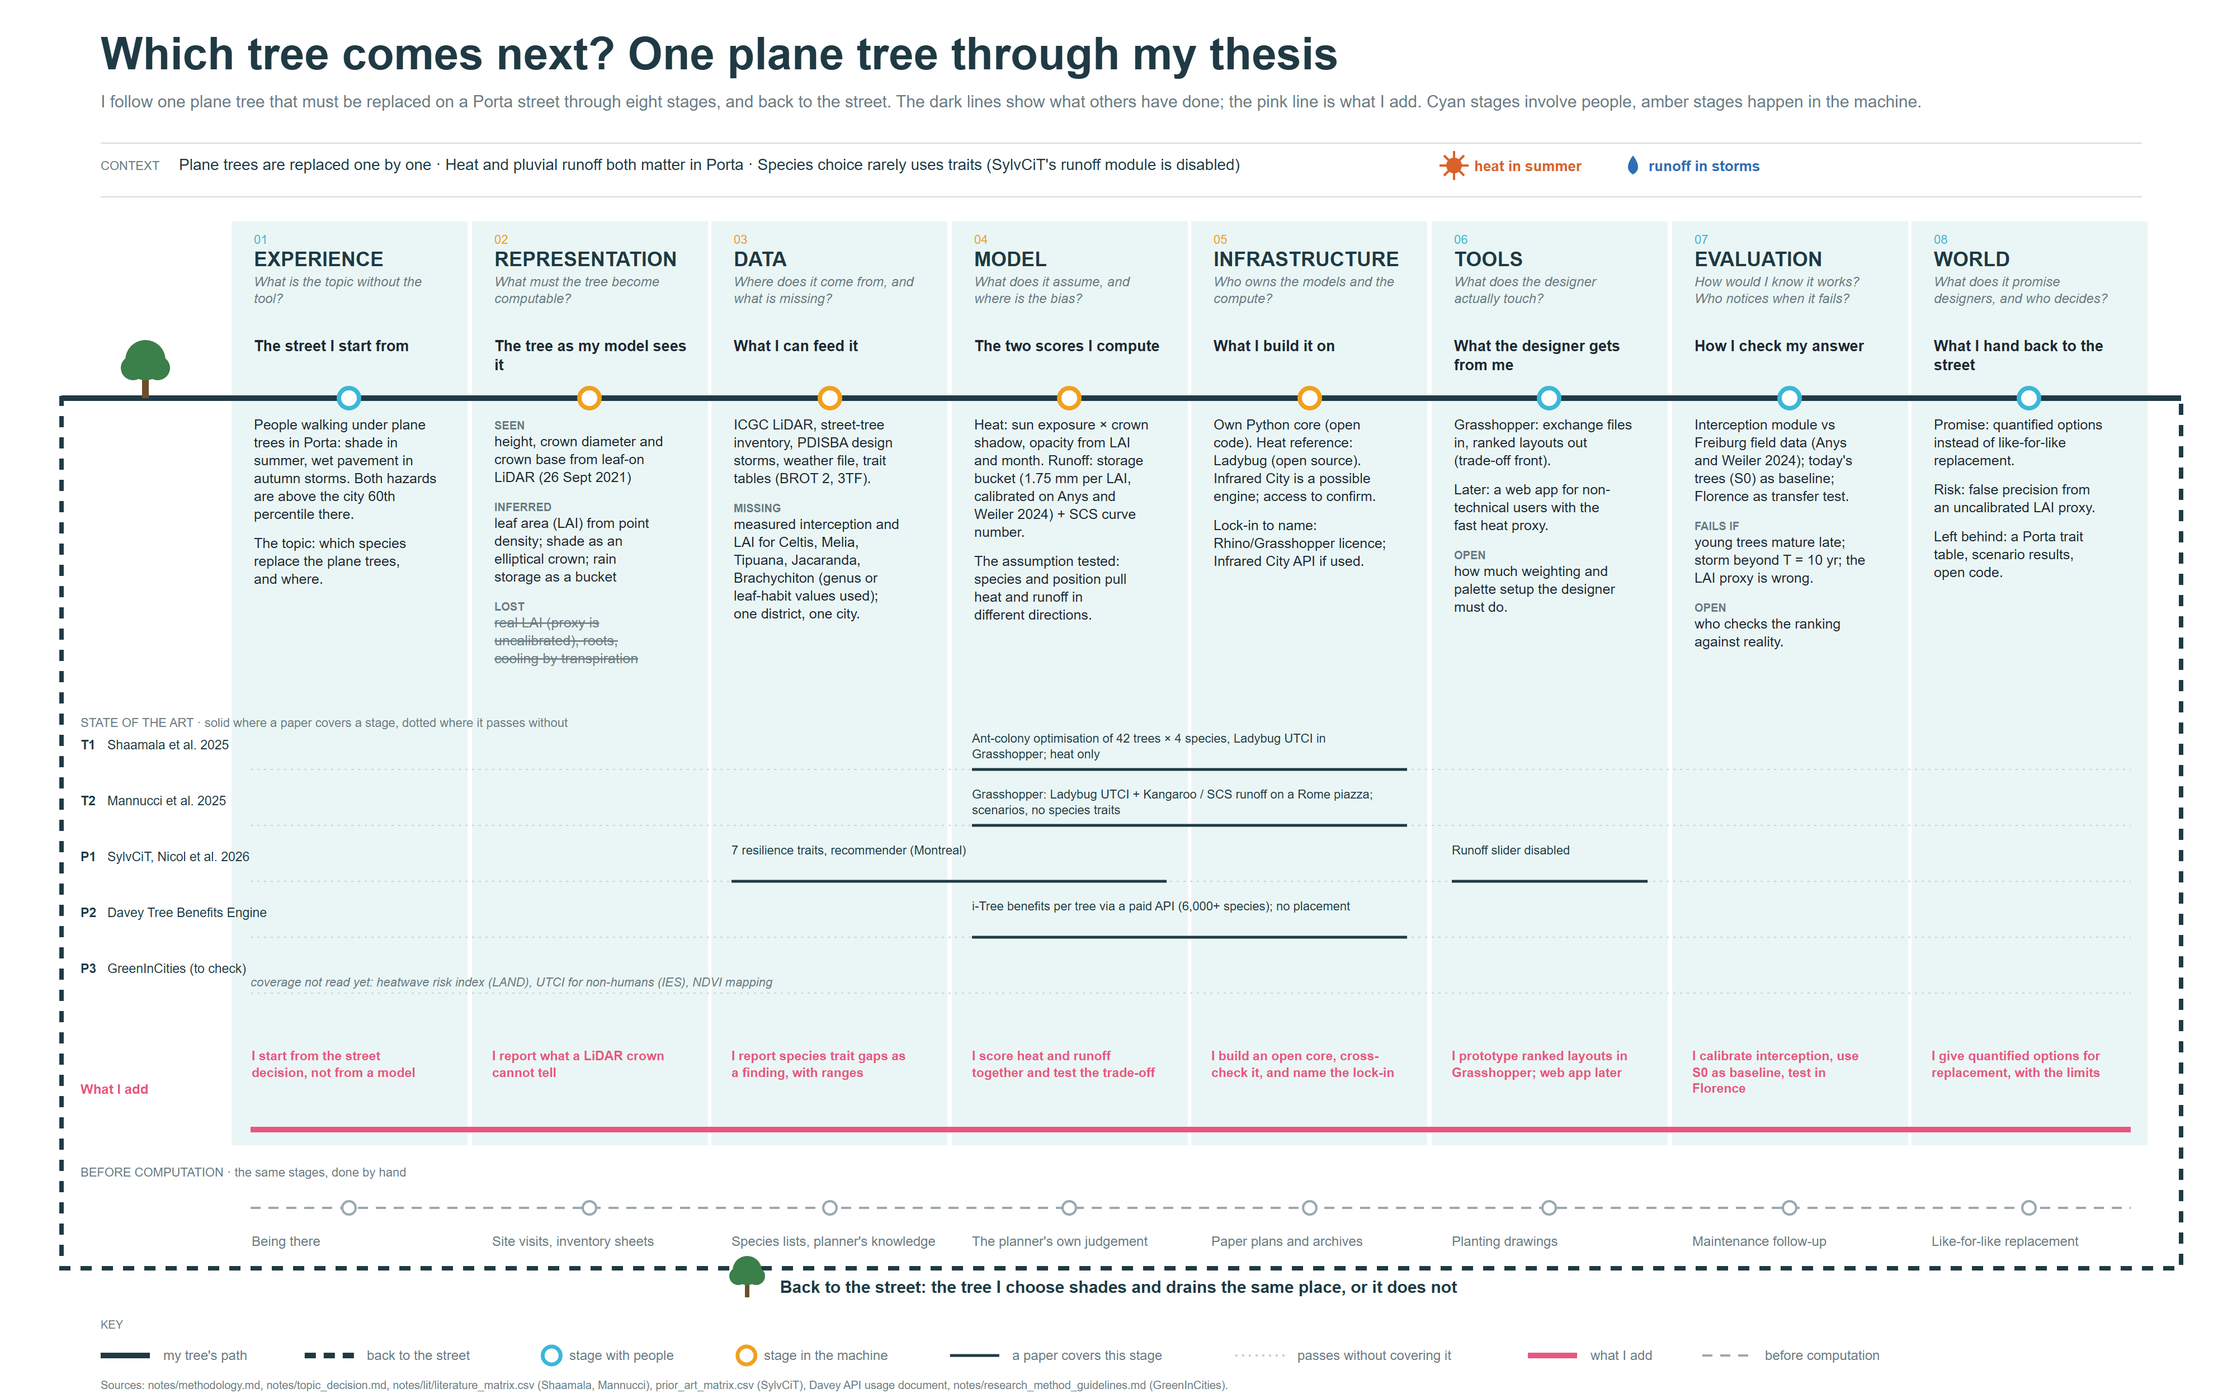
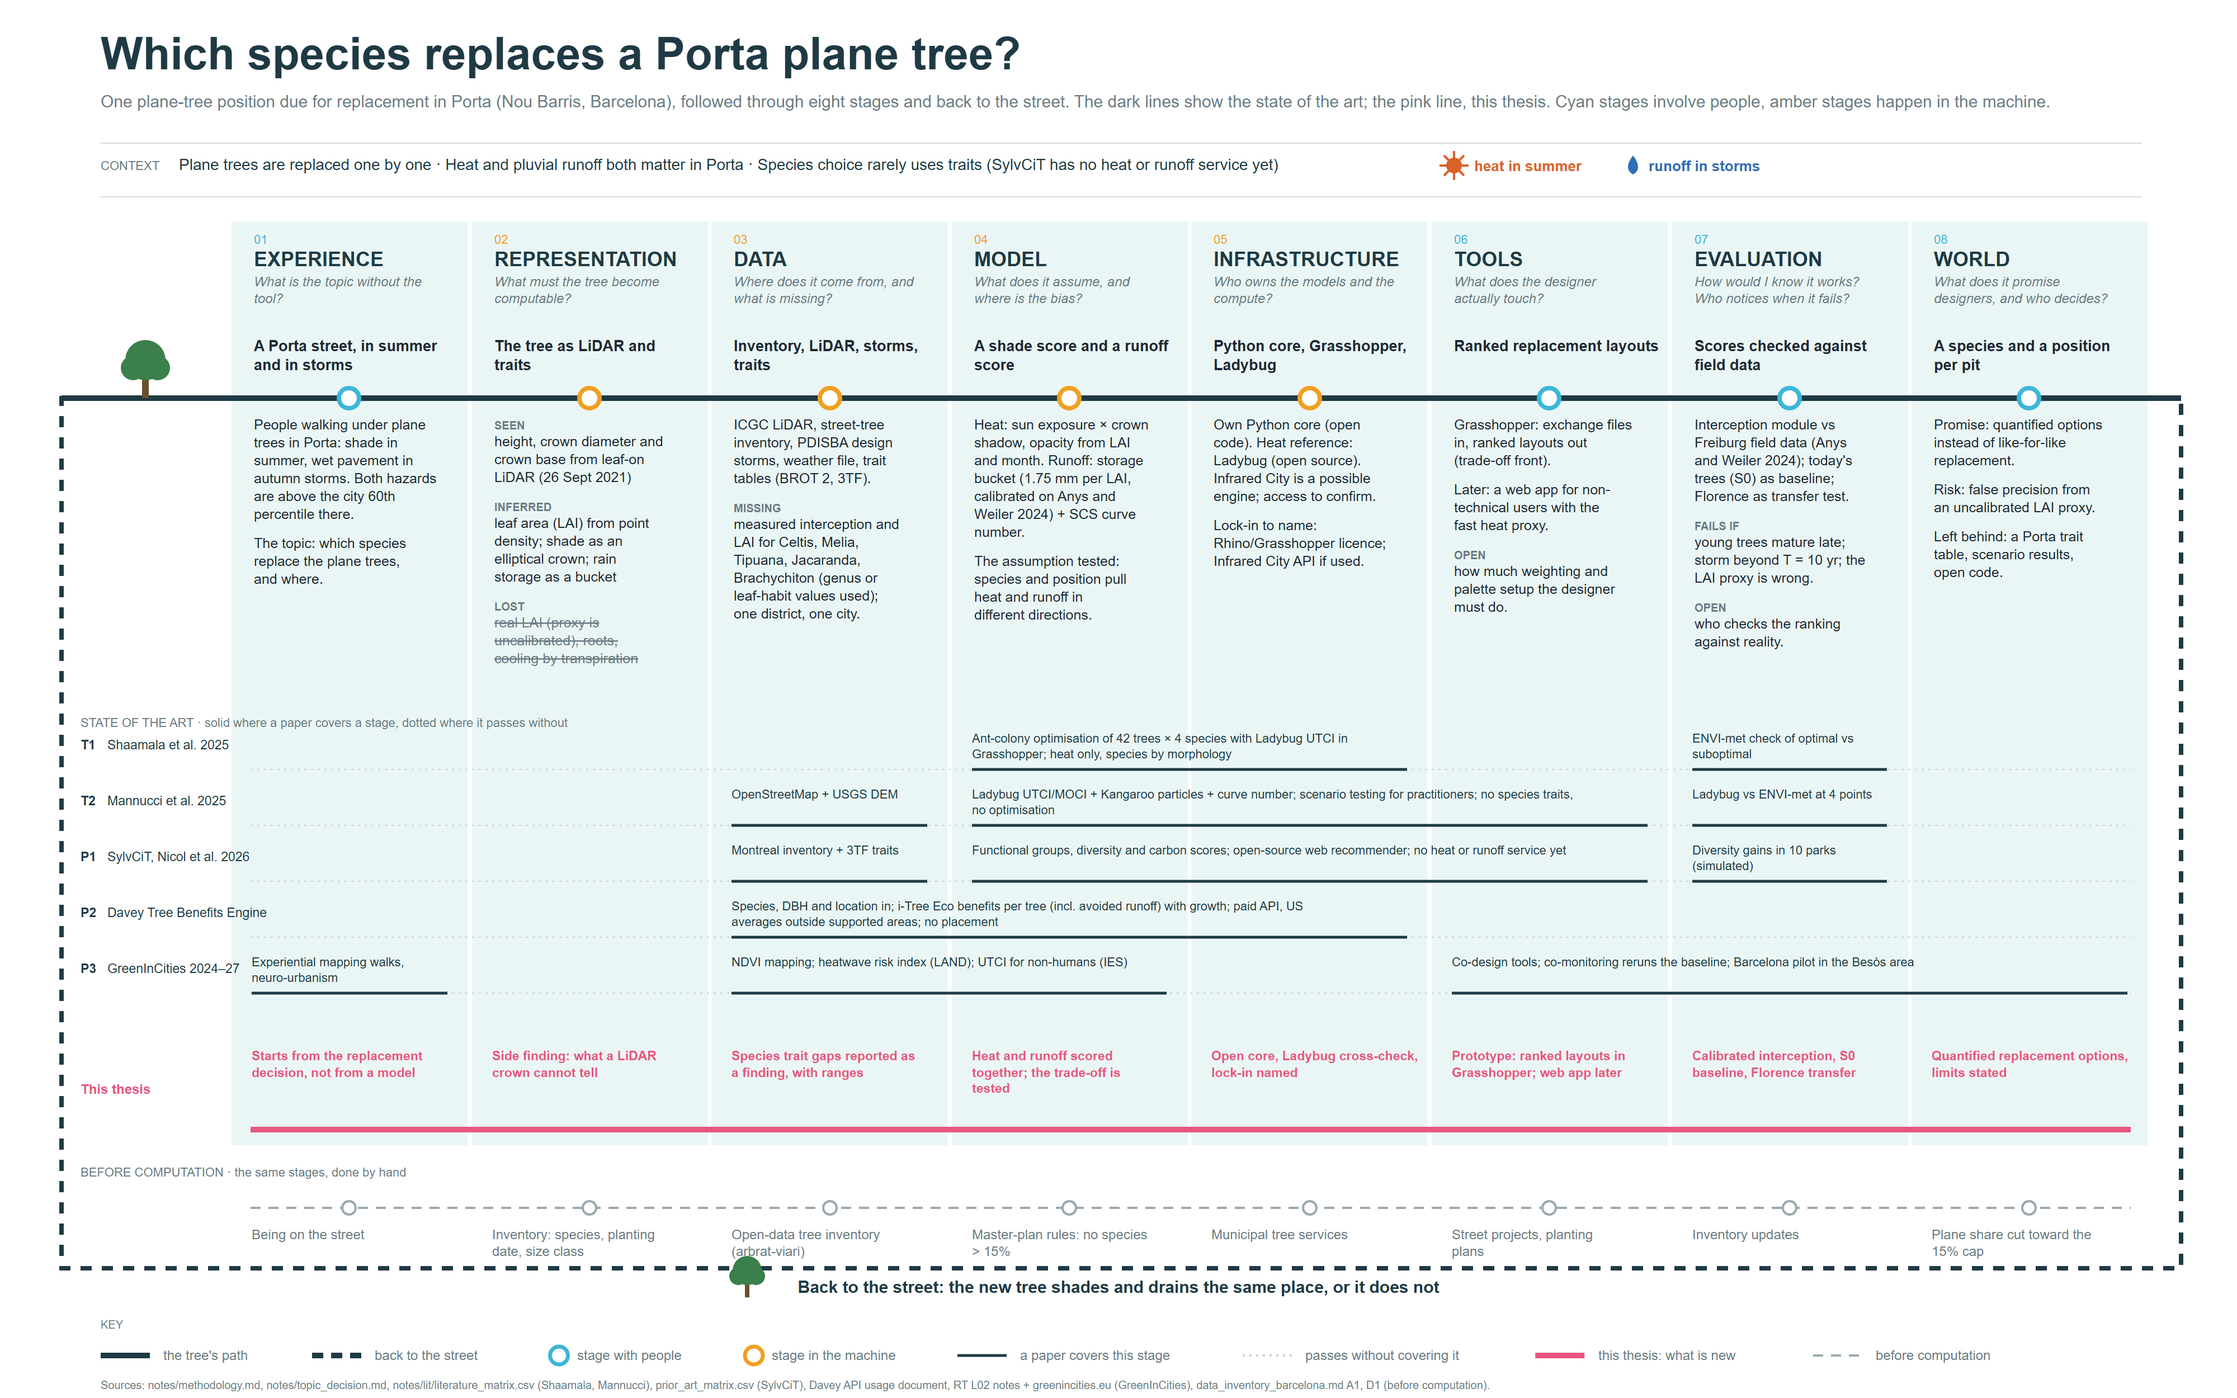
Plane-tree map: neutral wording, state-of-the-art spans checked against papers, GreenInCities row, Barcelona before-computation captions

diff --git a/scripts/make_plane_tree_map.py b/scripts/make_plane_tree_map.py
@@ -1,7 +1,8 @@
-""""Which tree comes next?": one plane-tree position through eight stages of my thesis (RM homework 1, format of a colleague's "plaza photo" map).
+"""Which species replaces a Porta plane tree? One tree position through eight stages (RM homework 1, format of a colleague's "plaza photo" map).
 
-Content comes from notes/methodology.md, notes/topic_decision.md, notes/lit/literature_matrix.csv, prior_art_matrix.csv and the
-Davey API digest; nothing new is claimed. "to check" = not read yet. Output: slides/fig/08_plane_tree_map.svg + .png (2000x1250).
+Content: notes/methodology.md, notes/topic_decision.md; state-of-the-art spans checked against the full texts in notes/lit/text
+(Shaamala 2025, Mannucci 2025, SylvCiT, Davey API) and, for GreenInCities, RT_L02_notes.md + greenincities.eu/tools (14 Oct 2026);
+"before computation" from databases/data_inventory_barcelona.md A1, D1. Output: slides/fig/08_plane_tree_map.svg + .png (2000x1250).
 """
 import pathlib
 from xml.sax.saxutils import escape
@@ -15,53 +16,61 @@ X0, CW = 205, 214.6                      # first column x, column width
 cx = lambda i: X0 + (i - 0.5) * CW       # centre of stage i (1-8)
 
 STAGES = [  # name, question, unit at this stage, people?, body [(tag, text)]
-    ("EXPERIENCE", "What is the topic without the tool?", "The street I start from", True,
+    ("EXPERIENCE", "What is the topic without the tool?", "A Porta street, in summer and in storms", True,
      [("", "People walking under plane trees in Porta: shade in summer, wet pavement in autumn storms. Both hazards are above the city 60th percentile there."),
       ("", "The topic: which species replace the plane trees, and where.")]),
-    ("REPRESENTATION", "What must the tree become computable?", "The tree as my model sees it", False,
+    ("REPRESENTATION", "What must the tree become computable?", "The tree as LiDAR and traits", False,
      [("SEEN", "height, crown diameter and crown base from leaf-on LiDAR (26 Sept 2021)"),
       ("INFERRED", "leaf area (LAI) from point density; shade as an elliptical crown; rain storage as a bucket"),
       ("LOST", "real LAI (proxy is uncalibrated), roots, cooling by transpiration")]),
-    ("DATA", "Where does it come from, and what is missing?", "What I can feed it", False,
+    ("DATA", "Where does it come from, and what is missing?", "Inventory, LiDAR, storms, traits", False,
      [("", "ICGC LiDAR, street-tree inventory, PDISBA design storms, weather file, trait tables (BROT 2, 3TF)."),
       ("MISSING", "measured interception and LAI for Celtis, Melia, Tipuana, Jacaranda, Brachychiton (genus or leaf-habit values used); one district, one city.")]),
-    ("MODEL", "What does it assume, and where is the bias?", "The two scores I compute", False,
+    ("MODEL", "What does it assume, and where is the bias?", "A shade score and a runoff score", False,
      [("", "Heat: sun exposure × crown shadow, opacity from LAI and month. Runoff: storage bucket (1.75 mm per LAI, calibrated on Anys and Weiler 2024) + SCS curve number."),
       ("", "The assumption tested: species and position pull heat and runoff in different directions.")]),
-    ("INFRASTRUCTURE", "Who owns the models and the compute?", "What I build it on", False,
+    ("INFRASTRUCTURE", "Who owns the models and the compute?", "Python core, Grasshopper, Ladybug", False,
      [("", "Own Python core (open code). Heat reference: Ladybug (open source). Infrared City is a possible engine; access to confirm."),
       ("", "Lock-in to name: Rhino/Grasshopper licence; Infrared City API if used.")]),
-    ("TOOLS", "What does the designer actually touch?", "What the designer gets from me", True,
+    ("TOOLS", "What does the designer actually touch?", "Ranked replacement layouts", True,
      [("", "Grasshopper: exchange files in, ranked layouts out (trade-off front)."),
       ("", "Later: a web app for non-technical users with the fast heat proxy."),
       ("OPEN", "how much weighting and palette setup the designer must do.")]),
-    ("EVALUATION", "How would I know it works? Who notices when it fails?", "How I check my answer", True,
+    ("EVALUATION", "How would I know it works? Who notices when it fails?", "Scores checked against field data", True,
      [("", "Interception module vs Freiburg field data (Anys and Weiler 2024); today's trees (S0) as baseline; Florence as transfer test."),
       ("FAILS IF", "young trees mature late; storm beyond T = 10 yr; the LAI proxy is wrong."),
       ("OPEN", "who checks the ranking against reality.")]),
-    ("WORLD", "What does it promise designers, and who decides?", "What I hand back to the street", True,
+    ("WORLD", "What does it promise designers, and who decides?", "A species and a position per pit", True,
      [("", "Promise: quantified options instead of like-for-like replacement."),
       ("", "Risk: false precision from an uncalibrated LAI proxy."),
       ("", "Left behind: a Porta trait table, scenario results, open code.")]),
 ]
-# state of the art: (label, [(first stage, last stage, caption)]); None caption row = covered nowhere solid
+# state of the art: (label, [(first stage, last stage, caption)])
 SOTA = [
-    ("T1 Shaamala et al. 2025", [(4, 5, "Ant-colony optimisation of 42 trees × 4 species, Ladybug UTCI in Grasshopper; heat only")]),
-    ("T2 Mannucci et al. 2025", [(4, 5, "Grasshopper: Ladybug UTCI + Kangaroo / SCS runoff on a Rome piazza; scenarios, no species traits")]),
-    ("P1 SylvCiT, Nicol et al. 2026", [(3, 4, "7 resilience traits, recommender (Montreal)"), (6, 6, "Runoff slider disabled")]),
-    ("P2 Davey Tree Benefits Engine", [(4, 5, "i-Tree benefits per tree via a paid API (6,000+ species); no placement")]),
-    ("P3 GreenInCities (to check)", []),
+    ("T1 Shaamala et al. 2025", [(4, 5, "Ant-colony optimisation of 42 trees × 4 species with Ladybug UTCI in Grasshopper; heat only, species by morphology"),
+                                 (7, 7, "ENVI-met check of optimal vs suboptimal")]),
+    ("T2 Mannucci et al. 2025", [(3, 3, "OpenStreetMap + USGS DEM"),
+                                 (4, 6, "Ladybug UTCI/MOCI + Kangaroo particles + curve number; scenario testing for practitioners; no species traits, no optimisation"),
+                                 (7, 7, "Ladybug vs ENVI-met at 4 points")]),
+    ("P1 SylvCiT, Nicol et al. 2026", [(3, 3, "Montreal inventory + 3TF traits"),
+                                       (4, 6, "Functional groups, diversity and carbon scores; open-source web recommender; no heat or runoff service yet"),
+                                       (7, 7, "Diversity gains in 10 parks (simulated)")]),
+    ("P2 Davey Tree Benefits Engine", [(3, 5, "Species, DBH and location in; i-Tree Eco benefits per tree (incl. avoided runoff) with growth; paid API, US averages outside supported areas; no placement")]),
+    ("P3 GreenInCities 2024–27", [(1, 1, "Experiential mapping walks, neuro-urbanism"),
+                                        (3, 4, "NDVI mapping; heatwave risk index (LAND); UTCI for non-humans (IES)"),
+                                        (6, 8, "Co-design tools; co-monitoring reruns the baseline; Barcelona pilot in the Besòs area")]),
 ]
-THESIS = ["I start from the street decision, not from a model",
-          "I report what a LiDAR crown cannot tell",
-          "I report species trait gaps as a finding, with ranges",
-          "I score heat and runoff together and test the trade-off",
-          "I build an open core, cross-check it, and name the lock-in",
-          "I prototype ranked layouts in Grasshopper; web app later",
-          "I calibrate interception, use S0 as baseline, test in Florence",
-          "I give quantified options for replacement, with the limits"]
-BEFORE = ["Being there", "Site visits, inventory sheets", "Species lists, planner's knowledge", "The planner's own judgement",
-          "Paper plans and archives", "Planting drawings", "Maintenance follow-up", "Like-for-like replacement"]
+THESIS = ["Starts from the replacement decision, not from a model",
+          "Side finding: what a LiDAR crown cannot tell",
+          "Species trait gaps reported as a finding, with ranges",
+          "Heat and runoff scored together; the trade-off is tested",
+          "Open core, Ladybug cross-check, lock-in named",
+          "Prototype: ranked layouts in Grasshopper; web app later",
+          "Calibrated interception, S0 baseline, Florence transfer",
+          "Quantified replacement options, limits stated"]
+BEFORE = ["Being on the street", "Inventory: species, planting date, size class", "Open-data tree inventory (arbrat-viari)",
+          "Master-plan rules: no species > 15%", "Municipal tree services", "Street projects, planting plans",
+          "Inventory updates", "Plane share cut toward the 15% cap"]
 
 
 def txt(x, y, s, size=13, fill=INK, weight="normal", anchor="start", italic=False, strike=False):
@@ -91,12 +100,12 @@ def hazards(x, y):
 
 
 def build():
-    b = [txt(90, 62, "Which tree comes next? One plane tree through my thesis", 40, INK, "bold"),
-         txt(90, 96, "I follow one plane tree that must be replaced on a Porta street through eight stages, and back to the street. "
-                     "The dark lines show what others have done; the pink line is what I add. Cyan stages involve people, amber stages happen in the machine.", 15, MUTED)]
+    b = [txt(90, 62, "Which species replaces a Porta plane tree?", 40, INK, "bold"),
+         txt(90, 96, "One plane-tree position due for replacement in Porta (Nou Barris, Barcelona), followed through eight stages and back to the street. "
+                     "The dark lines show the state of the art; the pink line, this thesis. Cyan stages involve people, amber stages happen in the machine.", 15, MUTED)]
     b.append(f'<line x1="90" y1="128" x2="1915" y2="128" stroke="#D5DBDE"/>')
     b.append(txt(90, 152, "CONTEXT", 11, MUTED) + txt(160, 152,
-              "Plane trees are replaced one by one · Heat and pluvial runoff both matter in Porta · Species choice rarely uses traits (SylvCiT's runoff module is disabled)", 14, INK))
+              "Plane trees are replaced one by one · Heat and pluvial runoff both matter in Porta · Species choice rarely uses traits (SylvCiT has no heat or runoff service yet)", 14, INK))
     b.append(hazards(1300, 148))
     b.append('<line x1="90" y1="176" x2="1915" y2="176" stroke="#D5DBDE"/>')
     body_h = 1000
@@ -138,11 +147,9 @@ def build():
             b.append(f'<line x1="{xa:.0f}" y1="{y}" x2="{xz:.0f}" y2="{y}" stroke="{INK}" stroke-width="2.5"/>')
             s, _ = wrap(xa, y - 24, cap, xz - xa, 11, fill=INK)
             b.append(s)
-        if not segs:
-            b.append(txt(224, y - 6, "coverage not read yet: heatwave risk index (LAND), UTCI for non-humans (IES), NDVI mapping", 11, MUTED, italic=True))
     # this thesis
     yt = y0 + 22 + 5 * 50 + 6
-    b.append(txt(72, yt + 34, "What I add", 12, PINK, "bold"))
+    b.append(txt(72, yt + 34, "This thesis", 12, PINK, "bold"))
     for i, s_ in enumerate(THESIS, 1):
         s, _ = wrap(cx(i) - CW / 2 + 20, yt + 4, s_, CW - 36, 11.5, weight="bold", fill=PINK)
         b.append(s)
@@ -154,15 +161,15 @@ def build():
     b.append(f'<line x1="224" y1="{yb + 14}" x2="1905" y2="{yb + 14}" stroke="#9AA9AF" stroke-width="2" stroke-dasharray="9 7"/>')
     for i, s_ in enumerate(BEFORE, 1):
         b.append(f'<circle cx="{cx(i):.0f}" cy="{yb + 14}" r="6" fill="#fff" stroke="#9AA9AF" stroke-width="2"/>')
-        b.append(txt(cx(i) - CW / 2 + 20, yb + 48, s_, 12, MUTED))
-    b.append(txt(1000, 1156, "Back to the street: the tree I choose shades and drains the same place, or it does not", 15, INK, "bold", "middle"))
+        b.append(wrap(cx(i) - CW / 2 + 20, yb + 42, s_, CW - 36, 12, fill=MUTED)[0])
+    b.append(txt(1000, 1156, "Back to the street: the new tree shades and drains the same place, or it does not", 15, INK, "bold", "middle"))
     # key
     b.append(tree(668, 1160, 1.0))
     ky = 1212
     b.append(txt(90, ky - 24, "KEY", 10, MUTED))
-    items = [("line", INK, 5, "", "my tree's path"), ("line", INK, 5, "10 7", "back to the street"), ("dot", CYAN, 0, "", "stage with people"),
+    items = [("line", INK, 5, "", "the tree's path"), ("line", INK, 5, "10 7", "back to the street"), ("dot", CYAN, 0, "", "stage with people"),
              ("dot", AMBER, 0, "", "stage in the machine"), ("line", INK, 2.5, "", "a paper covers this stage"),
-             ("line", "#C9D1D4", 2, "2 4", "passes without covering it"), ("line", PINK, 5, "", "what I add"),
+             ("line", "#C9D1D4", 2, "2 4", "passes without covering it"), ("line", PINK, 5, "", "this thesis: what is new"),
              ("line", "#9AA9AF", 2, "9 7", "before computation")]
     x = 90
     for kind, col, sw, dash, lab in items:
@@ -175,7 +182,7 @@ def build():
         b.append(txt(x + w, ky + 4, lab, 12, MUTED))
         x += w + len(lab) * 6.6 + 34
     b.append(txt(90, H - 8, "Sources: notes/methodology.md, notes/topic_decision.md, notes/lit/literature_matrix.csv (Shaamala, Mannucci), prior_art_matrix.csv (SylvCiT), "
-                            "Davey API usage document, notes/research_method_guidelines.md (GreenInCities).", 10, MUTED))
+                            "Davey API usage document, RT L02 notes + greenincities.eu (GreenInCities), data_inventory_barcelona.md A1, D1 (before computation).", 10, MUTED))
     return "".join(b)
 
 

diff --git a/notes/miro_map_proposal.md b/notes/miro_map_proposal.md
@@ -42,12 +42,12 @@ Add three loose stickies from the Question prompts: failure cases (young tree; s
 ## State-of-the-art strip (5 cards, my lane)
 | Type | Candidate | Doesn't do (my gap) |
 |---|---|---|
-| Theory | Shaamala et al. 2025 | tree placement optimised for heat only; water is future work |
-| Theory | Mannucci et al. 2025 | coupled heat and runoff, no species traits |
-| Practice | SylvCiT (Nicol et al. 2026) | runoff module disabled; no heat; Montreal only |
-| Practice | Davey Tree Benefits Engine API | to fill in after reading the paper |
-| Practice | GreenInCities Barcelona tools (heatwave risk index) | to check: species choice / placement not covered? |
-Verify every "doesn't do" against the paper in `papers/` and add the source link on each card. Arrow from each card to the box it informs.
+| Theory | Shaamala et al. 2025 | placement + species optimised for heat (UTCI) only, species by morphology; authors name water sensitivity as a missing objective |
+| Theory | Mannucci et al. 2025 | heat + runoff in Grasshopper, but scenario testing only: no species traits, no optimisation |
+| Practice | SylvCiT (Nicol et al. 2026) | no heat-island or runoff service yet (authors' words); diversity and carbon only; Montreal |
+| Practice | Davey Tree Benefits Engine API | per-tree i-Tree benefits (incl. avoided runoff) for a given species and DBH; no placement or species choice; paid; US averages outside supported areas |
+| Practice | GreenInCities (EU 2024–27; Barcelona pilot in Besòs) | participatory greening with NDVI, heatwave risk index, non-human UTCI, co-monitoring; species or placement choice and runoff not described in the sources read |
+Checked against the full texts (14 Oct); GreenInCities from RT L02 notes + greenincities.eu/tools. Add the source link on each card. Arrow from each card to the box it informs.
 
 ## Steps
 1. Confirm the cluster with the advisor and message colleagues the protocol above.
